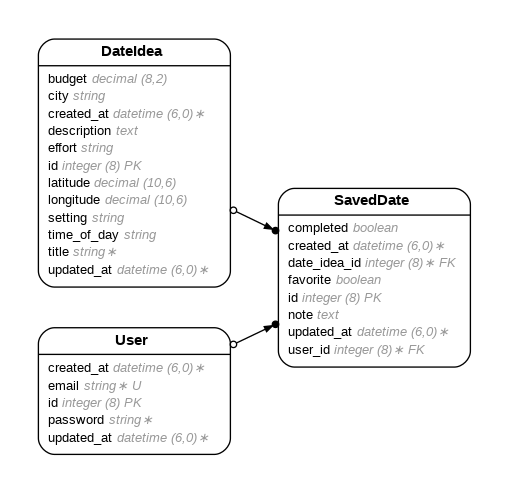
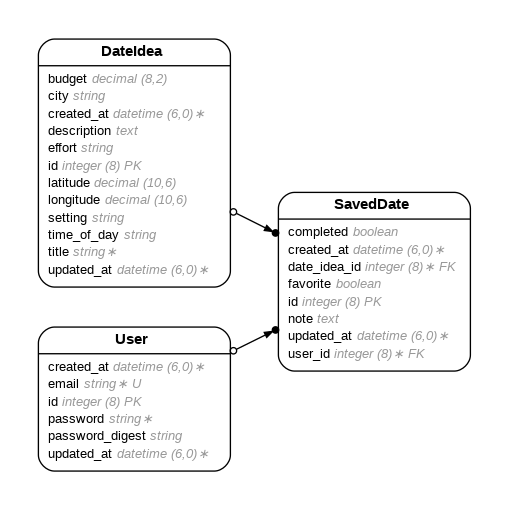
finished functionality

Changed region(s): [[0.0589, 0.3651, 0.943, 0.9432], [0.0589, 0.0609, 0.4715, 0.6085], [0.442, 0.8824, 0.4715, 0.9128]]

diff --git a/app/controllers/saved_dates_controller.rb b/app/controllers/saved_dates_controller.rb
@@ -1,11 +1,11 @@
 class SavedDatesController < ApplicationController
+  before_action :require_login
   before_action :set_saved_date, only: [:show, :toggle_favorite, :mark_completed, :destroy]
+  before_action :authorize_saved_date, only: [:show, :toggle_favorite, :mark_completed, :destroy]
 
   def index
-    # For now, get all saved dates (later we'll filter by current user)
-    @saved_dates = SavedDate.includes(:date_idea)
-    
-    # Apply filters
+    @saved_dates = current_user.saved_dates.includes(:date_idea)
+
     case params[:filter]
     when 'favorites'
       @saved_dates = @saved_dates.where(favorite: true)
@@ -14,12 +14,43 @@ class SavedDatesController < ApplicationController
     when 'planned'
       @saved_dates = @saved_dates.where(completed: false)
     end
-    
+
     @saved_dates = @saved_dates.order(created_at: :desc)
   end
 
+  def create
+  puts "🔍 Params received: #{params.inspect}"
+  puts "👤 Current user: #{current_user&.id}"
+
+  # Create a new DateIdea record from form data
+  idea = DateIdea.new(
+    title:         params[:title],
+    description:   params[:description],
+    budget:        params[:budget],
+    time_of_day:   params[:time_of_day],
+    setting:       params[:setting],
+    effort:        params[:effort],
+    city:          params[:location] # assuming this maps to `city` in your model
+  )
+
+  if idea.save
+    saved_date = current_user.saved_dates.build(date_idea: idea)
+
+    if saved_date.save
+      puts "✅ SavedDate and DateIdea created!"
+      redirect_to saved_dates_path, notice: "Date saved!"
+    else
+      puts "❌ Failed to save SavedDate: #{saved_date.errors.full_messages}"
+      redirect_to root_path, alert: "Failed to save date."
+    end
+  else
+    puts "❌ Failed to save DateIdea: #{idea.errors.full_messages}"
+    redirect_to root_path, alert: "Failed to save date idea."
+  end
+end
+
   def show
-    # Individual saved date view
+    # Already set by before_action
   end
 
   def toggle_favorite
@@ -41,5 +72,17 @@ class SavedDatesController < ApplicationController
 
   def set_saved_date
     @saved_date = SavedDate.find(params[:id])
+  end
+
+  def authorize_saved_date
+    unless @saved_date.user == current_user
+      redirect_to saved_dates_path, alert: "You're not authorized to view that date."
+    end
+  end
+
+  def require_login
+    unless current_user
+      redirect_to sign_in_path, alert: "Please sign in to view your saved dates."
+    end
   end
 end

diff --git a/config/routes.rb b/config/routes.rb
@@ -1,26 +1,26 @@
 Rails.application.routes.draw do
   root 'date_ideas#index'
-  
-  # Authentication routes
-  get 'sign_up', to: 'users#new'
-  post 'sign_up', to: 'users#create'
-  get 'sign_in', to: 'sessions#new'
-  post 'sign_in', to: 'sessions#create'
-  delete 'sign_out', to: 'sessions#destroy'
-  
-  # Your existing routes...
-  get 'date_ideas', to: 'date_ideas#index'
+
+  # Authentication
+  get '/sign_up', to: 'users#new'
+  post '/users', to: 'users#create'
+  get '/sign_in', to: 'sessions#new'
+  post '/sign_in', to: 'sessions#create'
+  delete '/sign_out', to: 'sessions#destroy'
+
+  # Date Ideas
+  get  'date_ideas/generate', to: 'date_ideas#generate' # ← Added GET version (must come before :id)
   post 'date_ideas/generate', to: 'date_ideas#generate'
   post 'date_ideas/save_generated_date', to: 'date_ideas#save_generated_date'
-  get 'date_ideas/:id', to: 'date_ideas#show', as: 'date_idea'
-  post 'save_date', to: 'date_ideas#create_saved_date'
-  
+  get  'date_ideas/:id', to: 'date_ideas#show', as: 'date_idea' # ← This must stay last to avoid conflicts
+
+  # Saved Dates
   resources :saved_dates, only: [:index, :show, :create, :destroy] do
     member do
       patch :toggle_favorite
       patch :mark_completed
     end
   end
-  
+
   resources :users, only: [:show]
 end

diff --git a/app/controllers/users_controller.rb b/app/controllers/users_controller.rb
@@ -1,22 +1,26 @@
 class UsersController < ApplicationController
 
-   def new
+  before_action :require_login, only: [:show]
+  before_action :authorize_user, only: [:show]
+
+  def new
     @user = User.new
   end
 
   def create
     @user = User.new(user_params)
-    
+
     if @user.save
       session[:user_id] = @user.id
       redirect_to root_path, notice: "Welcome! 🎉"
     else
+      flash.now[:alert] = "There was a problem creating your account."
       render :new
     end
   end
 
   def show
-    @user = User.find(params[:id])
+    # @user is already set by authorize_user
   end
 
   private
@@ -25,4 +29,16 @@ class UsersController < ApplicationController
     params.require(:user).permit(:email, :password, :password_confirmation)
   end
 
+  def require_login
+    unless current_user
+      redirect_to sign_in_path, alert: "Please sign in to access this page."
+    end
+  end
+
+  def authorize_user
+    @user = User.find(params[:id])
+    if @user != current_user
+      redirect_to root_path, alert: "You are not authorized to view that page."
+    end
+  end
 end

diff --git a/app/controllers/sessions_controller.rb b/app/controllers/sessions_controller.rb
@@ -4,12 +4,21 @@ class SessionsController < ApplicationController
   end
 
   def create
+    puts "=== SIGN IN DEBUG ==="
+    puts "Email: #{params[:email]}"
+    puts "Password present: #{params[:password].present?}"
+    
     user = User.find_by(email: params[:email].downcase)
+    puts "User found: #{user.present?}"
+    puts "User email: #{user&.email}"
+    puts "Password check: #{user&.authenticate(params[:password])}" if user
     
     if user && user.authenticate(params[:password])
       session[:user_id] = user.id
+      puts "Sign in successful!"
       redirect_to root_path, notice: "Welcome back! 👋"
     else
+      puts "Sign in failed!"
       flash.now[:alert] = "Invalid email or password"
       render :new
     end

diff --git a/db/schema.rb b/db/schema.rb
@@ -10,7 +10,7 @@
 #
 # It's strongly recommended that you check this file into your version control system.
 
-ActiveRecord::Schema[7.1].define(version: 2025_05_22_004020) do
+ActiveRecord::Schema[7.1].define(version: 2025_05_27_221323) do
   # These are extensions that must be enabled in order to support this database
   enable_extension "plpgsql"
 
@@ -46,6 +46,7 @@ ActiveRecord::Schema[7.1].define(version: 2025_05_22_004020) do
     t.string "password"
     t.datetime "created_at", null: false
     t.datetime "updated_at", null: false
+    t.string "password_digest"
     t.index ["email"], name: "index_users_on_email", unique: true
   end
 

diff --git a/app/models/user.rb b/app/models/user.rb
@@ -2,11 +2,12 @@
 #
 # Table name: users
 #
-#  id         :bigint           not null, primary key
-#  email      :string
-#  password   :string
-#  created_at :datetime         not null
-#  updated_at :datetime         not null
+#  id              :bigint           not null, primary key
+#  email           :string
+#  password        :string
+#  password_digest :string
+#  created_at      :datetime         not null
+#  updated_at      :datetime         not null
 #
 # Indexes
 #
@@ -15,6 +16,7 @@
 class User < ApplicationRecord
 
   has_secure_password
+
 
   
   validates :email, presence: true, uniqueness: true

diff --git a/db/migrate/20250527221323_add_password_digest_to_users.rb b/db/migrate/20250527221323_add_password_digest_to_users.rb
@@ -1,0 +1,5 @@
+class AddPasswordDigestToUsers < ActiveRecord::Migration[7.1]
+  def change
+    add_column :users, :password_digest, :string
+  end
+end
